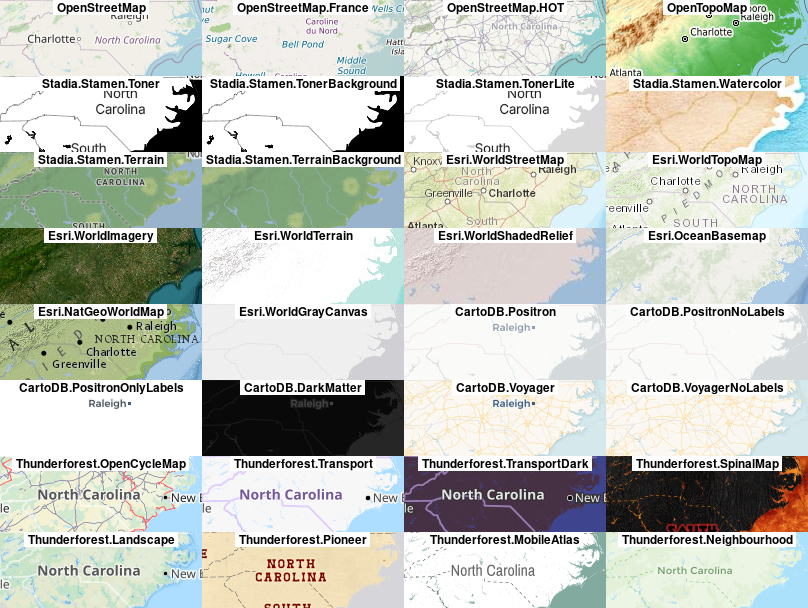
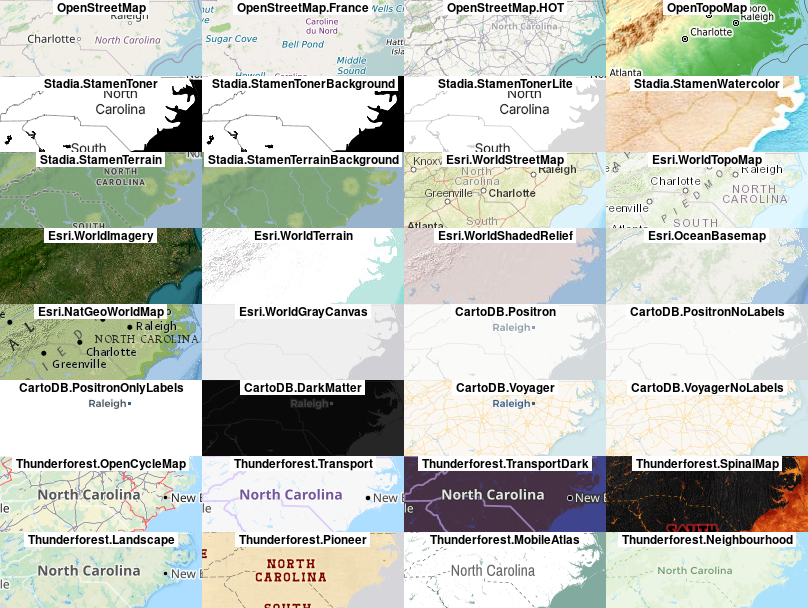
version 0.8.0

diff --git a/README.md b/README.md
@@ -67,16 +67,20 @@ tiles server and how to cache the original tiles for future use:
 
 ``` r
 # define the tile server parameters
-osmpos <- create_provider(name = "CARTO.POSITRON",
-                          url = "https://{s}.basemaps.cartocdn.com/light_all/{z}/{x}/{y}.png",
-                          sub = c("a", "b", "c", "d"),
-                          citation = "© OpenStreetMap contributors © CARTO ")
+osmpos <- create_provider(
+  name = "CARTO.POSITRON",
+  url = "https://{s}.basemaps.cartocdn.com/light_all/{z}/{x}/{y}.png",
+  sub = c("a", "b", "c", "d"),
+  citation = "© OpenStreetMap contributors © CARTO "
+)
 # dowload tiles and compose raster (SpatRaster)
-nc_osmpos <- get_tiles(x = nc, provider = osmpos, crop = TRUE, 
-                       cachedir = tempdir(), verbose = TRUE)
+nc_osmpos <- get_tiles(
+  x = nc, provider = osmpos, crop = TRUE,
+  cachedir = tempdir(), verbose = TRUE
+)
 #> Zoom: 7
 #> Source(s): © OpenStreetMap contributors © CARTO 
-#> Cache directory: /tmp/RtmpdG8qYB/CARTO.POSITRON
+#> Cache directory: /tmp/RtmpQKpnO9/CARTO.POSITRON
 #> 8 tiles
 # display map
 plot_tiles(nc_osmpos)

diff --git a/NEWS.md b/NEWS.md
@@ -1,3 +1,14 @@
+# maptiles 0.8.0
+
+## fix
+- use the same provider names as leaflet (#31 @mtennekes)
+- correct a typo in attribution for OSM FR provider
+
+## feat
+- add get_providers() to export the provider list with URLS, subdomains, name and attribution (#31)
+
+
+
 # maptiles 0.7.0
 
 This release is a refactoring of the package, functions has been exploded to be 
